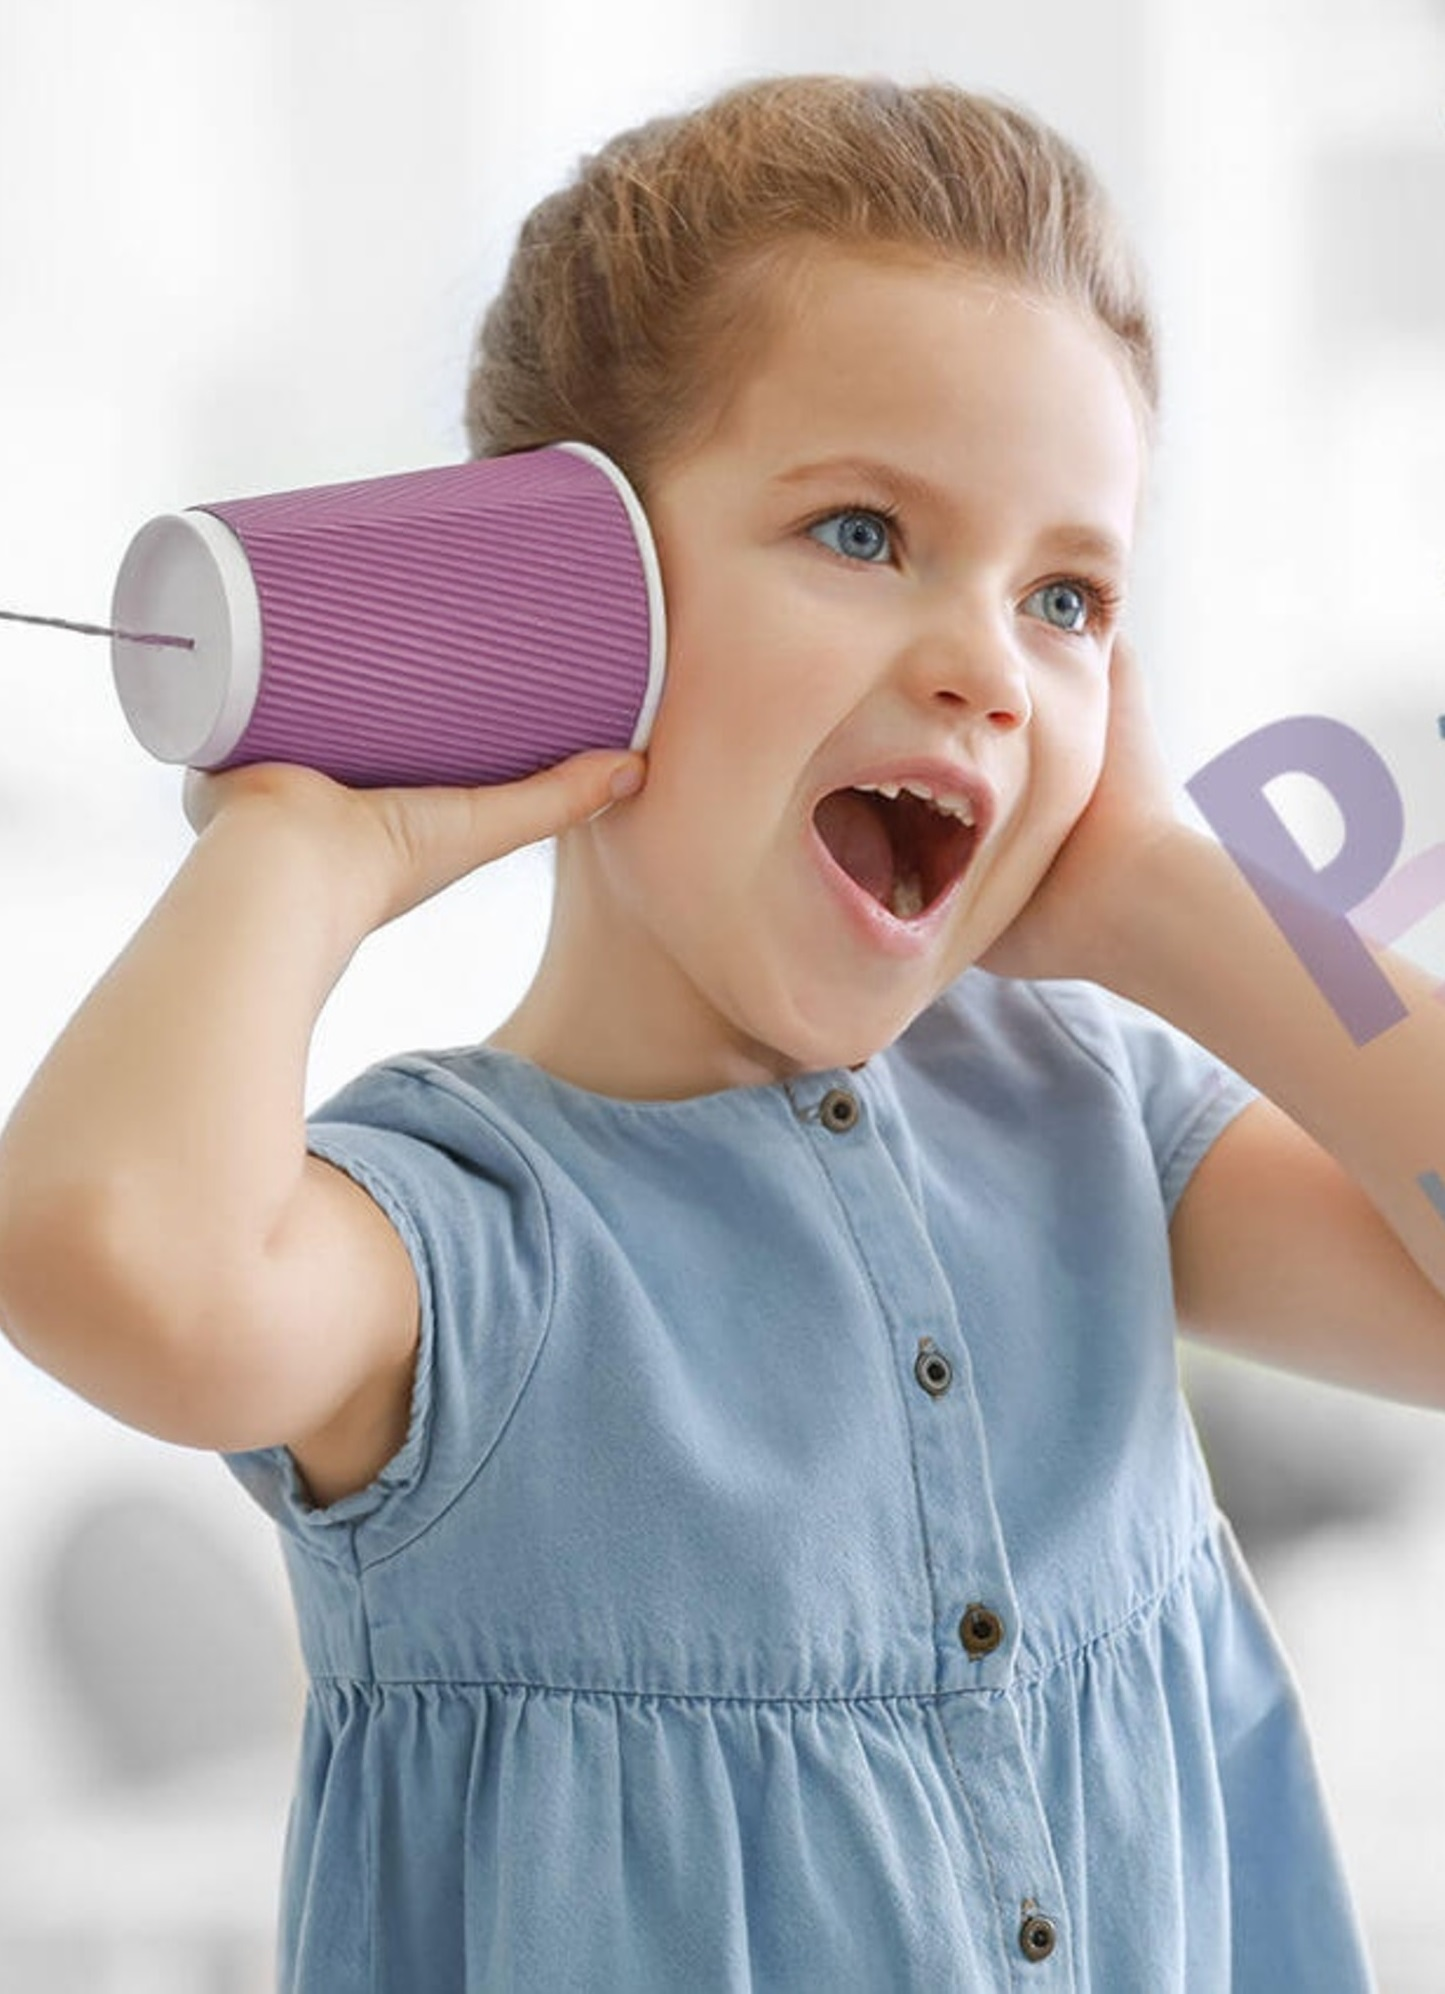
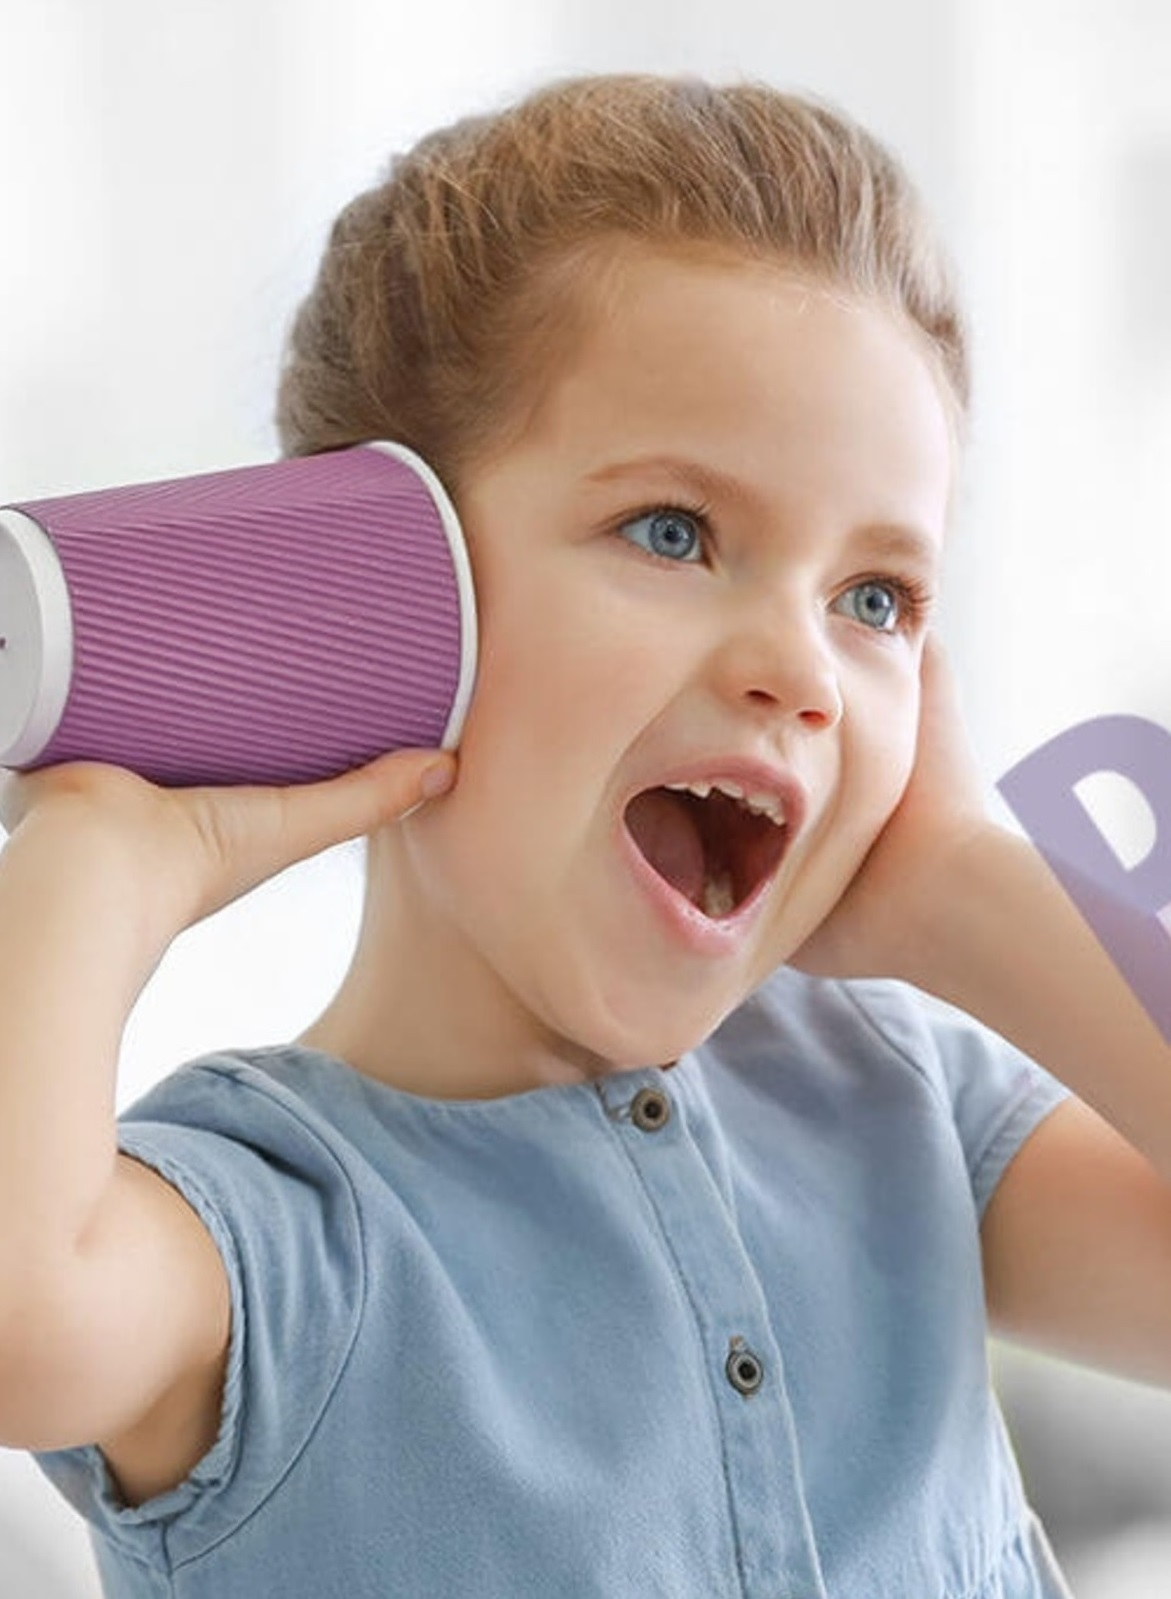
feat(Articles): changing format to cards instead of parallax

diff --git a/src/views/Home.vue b/src/views/Home.vue
@@ -35,6 +35,45 @@
               </v-card-text>
           </v-col>
       </v-row>
+      <v-row>
+          <v-col cols="4">
+              <v-card
+                      class="mx-auto mx-4 my-12"
+              >
+                  <v-img
+                          height="250"
+                          :src="require('../assets/t1.jpg')"
+                  ></v-img>
+
+                  <v-card-title>Хотите, чтобы ваш ребёнок полюбил книги?</v-card-title>
+              </v-card>
+          </v-col>
+          <v-col cols="4">
+              <v-card
+                      class="mx-auto mx-4 my-12"
+              >
+                  <v-img
+                          height="250"
+                          :src="require('../assets/t2.jpg')"
+                  ></v-img>
+
+                  <v-card-title>Чтобы его речь была чистой и ясной?</v-card-title>
+              </v-card>
+          </v-col>
+          <v-col cols="4">
+              <v-card
+                      class="mx-auto mx-4 my-12"
+              >
+                  <v-img
+                          height="250"
+                          :src="require('../assets/t3.jpg')"
+                  ></v-img>
+
+                  <v-card-title>Хотите сделать это дело семейной традицией?</v-card-title>
+              </v-card>
+          </v-col>
+      </v-row>
+      <!--
       <v-parallax
               :height="800"
               :src="require('../assets/t1.jpg')"
@@ -43,8 +82,8 @@
                   align="center"
                   justify="center"
           >
-              <v-col class="text-center" cols="12">
-                  <h1 class="display-1 font-weight-thin mb-4" style="color: rgba(236, 240, 241, 0.9)">Хотите, чтобы ваш ребёнок полюбил книги?</h1>
+              <v-col class="text-center articles" cols="12">
+                  <h1 class="display-1 font-weight-thin mb-4" style="color: rgba(40, 40, 40, 0.9)">Хотите, чтобы ваш ребёнок полюбил книги?</h1>
               </v-col>
           </v-row>
       </v-parallax>
@@ -56,24 +95,25 @@
                   align="center"
                   justify="center"
           >
-              <v-col class="text-center" cols="12">
-                  <h1 class="display-1 font-weight-thin mb-4" style="color: rgba(236, 240, 241, 0.9)">Чтобы его речь была чистой и ясной?</h1>
+              <v-col class="text-center articles" cols="12">
+                  <h1 class="display-1 font-weight-thin mb-4" style="color: rgba(40, 40, 40, 0.9)">Чтобы его речь была чистой и ясной?</h1>
               </v-col>
           </v-row>
       </v-parallax>
       <v-parallax
               :height="800"
               :src="require('../assets/t3.jpg')"
+              style="backdrop-filter: blur(10px)"
       >
           <v-row
                   align="center"
                   justify="center"
           >
-              <v-col class="text-center" cols="12">
-                  <h1 class="display-1 font-weight-thin mb-4" style="color: rgba(236, 240, 241, 0.9)">Хотите сделать это дело семейной традицией?</h1>
+              <v-col class="text-center articles" cols="12">
+                  <h1 class="display-1 font-weight-thin mb-4" style="color: rgba(40, 40, 40, 0.9)">Хотите сделать это дело семейной традицией?</h1>
               </v-col>
           </v-row>
-      </v-parallax>
+      </v-parallax>-->
   </v-container>
 </template>
 
@@ -97,6 +137,15 @@ export default {
   @font-face {
     font-family: "RobotoCondensed-Regular";
     src: url("../assets/fonts/RobotoCondensed-Regular.ttf") format("ttf");
+  }
+
+  @font-face {
+  font-family: "RobotoCondensed-Bold";
+      src: url("../assets/fonts/RobotoCondensed-Bold.ttf") format("ttf");
+  }
+
+  .articles {
+      font-family: "RobotoCondensed-Bold", sans-serif !important;
   }
 
   .greet {
